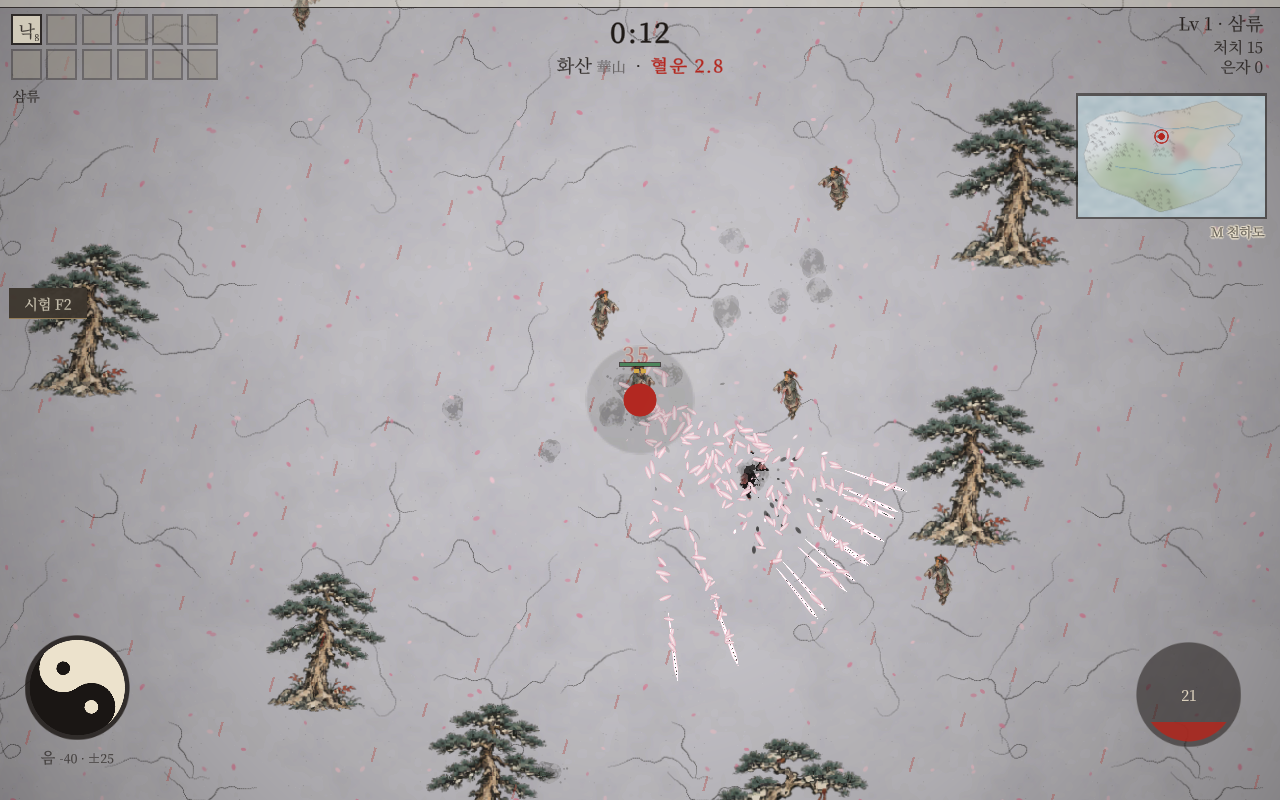
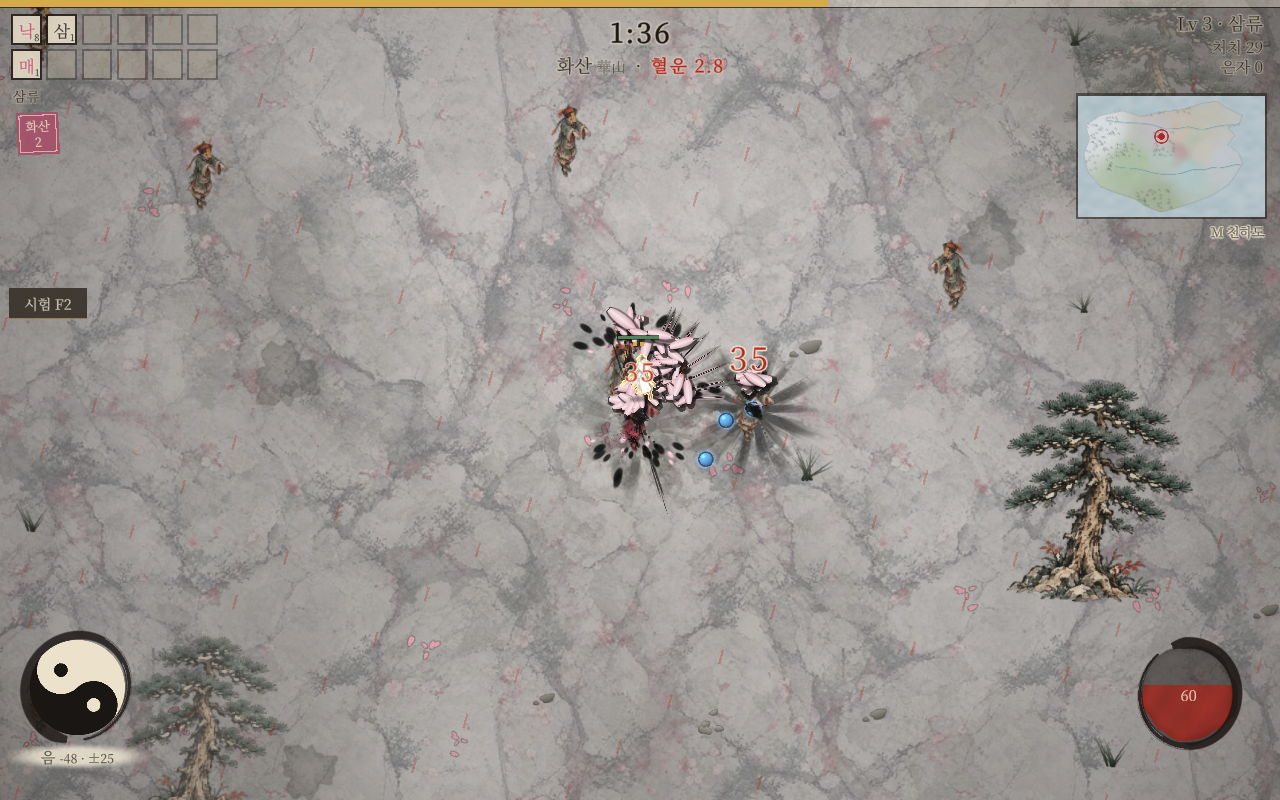
unity_tasks HF-03U 화산·마교 쓰러짐 다시 찍음
Claude-Session: https://claude.ai/code/session_01JznnPSNTi17o4myXgidJzi

diff --git a/docs/unity_tasks.md b/docs/unity_tasks.md
@@ -151,7 +151,7 @@ Unity 에디터가 있어야 하는 일만 적는다. PC Unity 예약 세션(202
   - 끝: 네 무공 모두 1단과 5단이 한눈에 다르고 그 사이도 구분됨. 효과 간소화를 켜면 담채·메아리·검풍·먹 터짐이 빠짐. 설정 흔들림 0% 에서 흔들림·눌림·어둡게 없음. 콘솔 에러 0
   - 찍기: `docs/unity_shots/VF-03U/` 에 무공마다 `<무공>_1.png`·`<무공>_3.png`·`<무공>_5.png`
 
-- [ ] HF-03U 절제된 타격감: 적이 쓰러지는 모습 · 먼저: 없음 (진행: 2026-11-17 20시 대화 세션 — `Fx/DeathLayer.cs` 를 새로 넣음. 쓰러진 적 그림 한 장을 0.3~0.6초 남겨 3단부터 성질대로: 먹 = 둘로 갈라짐, 금 = 뒤로 날아가며 금가루, 호박 = 납작, 푸름·번개 = 그을려 굳었다 바스러짐, 독 = 녹아 가라앉음, 물 = 쓸려 감, 꽃잎 = 연분홍으로 흩어짐, 자주 = 오그라듦, 불 = 재. 1·2단은 먹으로 번지며 밀려남(VF-18 규칙). `WeaponRunner` Killed 가 `EnemyField.LookOf`(그 적 그림·크기)로 넘김, 밟힘·쓸림은 뺌. 덩이 셰이더는 안 고침(같은 재질에 색·디졸브만) — 진짜 두 동강(UV 자르기)과 몸의 흰 번쩍은 HF-01U 때. Play 에서 나한권 5단으로 금빛으로 날아가는 것 확인. 2026-11-17 22:42 PC: 나한권 5단 한 장 찍음(`docs/unity_shots/HF-03U/` 의 `nahan.png`) — 쓰러진 적이 금가루와 함께 날아가는데 그림이 새까만 실루엣으로 보임(원화 색이 아니라 먹 덩이), 마지막 주먹의 노란 빛살이 화면 가운데를 꽤 크게 덮음(사람이 '번쩍임이 많다'고 한 쪽일 수 있음). 2026-11-19 02:40 PC: 11-18 HF-04 고침(낙뢰·흑룡탄 HitLook, 독·화상 LastKillDot) 컴파일 에러 0. 몸 바꾸기로 문파마다 시작 무공만 Lv8 로 두고 시간 0.08배로 찍음 — 숭산 나한권: 쓰러진 적이 황토·금빛으로 날아감, 새까맣지 않음(`nahan_gold.png`) / 개방 취선봉: 호박빛 호 + 먹 터짐, 납작해진 몸은 작아 잘 안 읽힘(`gaebang.png`) / 남궁 창천검기: 플레이어 곁에 잿빛으로 굳어 바스러지는 그림자(`namgung.png`) / 당가타 독무 Lv8: 바닥에 독 꽃 자국과 그 안에 가라앉는 검은 몸이 보이나 '녹아내림'인지는 멈춘 사진으론 애매(`poison.png`). 눈에 띈 것: 당가타 몸에서 플레이어 자리에 붉은 원이 그려짐(당가 몸 그림이 빠진 자리표 같음 — 다른 문파는 사람 그림). 콘솔 에러는 스크린샷 도구 Step 때 Dash.Tick dt 예외 하나(도구 몫). 남은 것: ① 절제 값이 화면에서 차분한지 사람 확인 ② 무당·화산·곤륜·수채·마교 시작 무공 한 장씩 ③ 당가 붉은 원 — 2026-11-19 03시 클라우드: 원인은 Run 씬 `PlayerLook` 몸 그림 목록이 11-17 에 들어온 그림(당가·무당·수로채 남녀, 당연화·하연·운화)을 몰라 `PlayerController` 동그라미가 남은 것. 메뉴 `몸 그림 목록 채우기` 와 같은 셈(파일 이름 차례, 알파 128 넘는 줄)으로 씬 YAML 의 names·sprites·footV·bodyV 를 열여덟 장으로 채움(앞 아홉 값은 그대로 다시 나옴). PC 는 당가 몸으로 사람 그림이 나오는지만 보면 된다. 화산·곤륜·마교 몸은 그림이 아직 없어(art_queue todo) 동그라미가 맞다 — 그림을 들이면 그 메뉴를 다시 돌린다. 2026-11-19 05:07 PC: 당가 몸(`TestPanel.SwitchBody("tang")`)에 사람 그림이 나오고 붉은 원 없음, 콘솔 에러 0 — ③ 끝. 찍음 `docs/unity_shots/HF-03U/` 의 `tang_body.png`. 2026-11-20 03:10 PC: ② 끝 — 몸 바꾸기로 다섯 문파 시작 무공 Lv8, 시간 0.08배로 한 장씩. 무당 태극검: 태극 원 둘레에 먹 가시가 터지고 쓰러진 적이 먹으로 갈라짐(`wudang.png`) / 화산 낙화검우: 분홍 꽃잎 부채 + 흰 검흔, 쓰러진 자리는 잿빛 번짐만 남아 '꽃잎으로 흩어짐'은 이 크기에선 잘 안 읽힘(`huashan.png`) / 곤륜 뇌부: 낙뢰 자리에 먹 별꼴 그을음, 맞은 적은 새까맣게 굳음(`kunlun.png`) / 수로채 쇄겸술: 젖은 자국이 플레이어 둘레에 번짐, 이 순간엔 낫이 안 보임(`waterfort.png`) / 마교 혈조: 손톱 자국이 가늘고 옅어 쓰러짐이 거의 안 보임(`demonic.png`). 화산·곤륜·마교 몸은 그림이 없어 동그라미(맞음). 무당·곤륜·십만대산에서 소나무 소품이 왼쪽 위 무공 칸·위 가운데 시계 줄을 덮음(PR-02U 와 같은 것). 콘솔 에러 0. 남은 것: ① 사람 확인뿐) (2026-11-20 21:20 대화 세션: 위에서 옅다던 둘을 고침(6740b731) — 화산 꽃잎 쓰러짐은 꽃잎 아홉 장·크기 .26·짙은 분홍으로 살짝 떠오르며 돌고, 마교 혈조 쓰러짐은 혈무 방울이 친 쪽으로 빨려 들며 짙은 피빛으로 사라짐. 컴파일 에러 0. 쓰러지는 순간 사진은 다음 PC 차례가 `huashan.png`·`demonic.png` 다시 찍기)
+- [ ] HF-03U 절제된 타격감: 적이 쓰러지는 모습 · 먼저: 없음 (진행: 2026-11-17 20시 대화 세션 — `Fx/DeathLayer.cs` 를 새로 넣음. 쓰러진 적 그림 한 장을 0.3~0.6초 남겨 3단부터 성질대로: 먹 = 둘로 갈라짐, 금 = 뒤로 날아가며 금가루, 호박 = 납작, 푸름·번개 = 그을려 굳었다 바스러짐, 독 = 녹아 가라앉음, 물 = 쓸려 감, 꽃잎 = 연분홍으로 흩어짐, 자주 = 오그라듦, 불 = 재. 1·2단은 먹으로 번지며 밀려남(VF-18 규칙). `WeaponRunner` Killed 가 `EnemyField.LookOf`(그 적 그림·크기)로 넘김, 밟힘·쓸림은 뺌. 덩이 셰이더는 안 고침(같은 재질에 색·디졸브만) — 진짜 두 동강(UV 자르기)과 몸의 흰 번쩍은 HF-01U 때. Play 에서 나한권 5단으로 금빛으로 날아가는 것 확인. 2026-11-17 22:42 PC: 나한권 5단 한 장 찍음(`docs/unity_shots/HF-03U/` 의 `nahan.png`) — 쓰러진 적이 금가루와 함께 날아가는데 그림이 새까만 실루엣으로 보임(원화 색이 아니라 먹 덩이), 마지막 주먹의 노란 빛살이 화면 가운데를 꽤 크게 덮음(사람이 '번쩍임이 많다'고 한 쪽일 수 있음). 2026-11-19 02:40 PC: 11-18 HF-04 고침(낙뢰·흑룡탄 HitLook, 독·화상 LastKillDot) 컴파일 에러 0. 몸 바꾸기로 문파마다 시작 무공만 Lv8 로 두고 시간 0.08배로 찍음 — 숭산 나한권: 쓰러진 적이 황토·금빛으로 날아감, 새까맣지 않음(`nahan_gold.png`) / 개방 취선봉: 호박빛 호 + 먹 터짐, 납작해진 몸은 작아 잘 안 읽힘(`gaebang.png`) / 남궁 창천검기: 플레이어 곁에 잿빛으로 굳어 바스러지는 그림자(`namgung.png`) / 당가타 독무 Lv8: 바닥에 독 꽃 자국과 그 안에 가라앉는 검은 몸이 보이나 '녹아내림'인지는 멈춘 사진으론 애매(`poison.png`). 눈에 띈 것: 당가타 몸에서 플레이어 자리에 붉은 원이 그려짐(당가 몸 그림이 빠진 자리표 같음 — 다른 문파는 사람 그림). 콘솔 에러는 스크린샷 도구 Step 때 Dash.Tick dt 예외 하나(도구 몫). 남은 것: ① 절제 값이 화면에서 차분한지 사람 확인 ② 무당·화산·곤륜·수채·마교 시작 무공 한 장씩 ③ 당가 붉은 원 — 2026-11-19 03시 클라우드: 원인은 Run 씬 `PlayerLook` 몸 그림 목록이 11-17 에 들어온 그림(당가·무당·수로채 남녀, 당연화·하연·운화)을 몰라 `PlayerController` 동그라미가 남은 것. 메뉴 `몸 그림 목록 채우기` 와 같은 셈(파일 이름 차례, 알파 128 넘는 줄)으로 씬 YAML 의 names·sprites·footV·bodyV 를 열여덟 장으로 채움(앞 아홉 값은 그대로 다시 나옴). PC 는 당가 몸으로 사람 그림이 나오는지만 보면 된다. 화산·곤륜·마교 몸은 그림이 아직 없어(art_queue todo) 동그라미가 맞다 — 그림을 들이면 그 메뉴를 다시 돌린다. 2026-11-19 05:07 PC: 당가 몸(`TestPanel.SwitchBody("tang")`)에 사람 그림이 나오고 붉은 원 없음, 콘솔 에러 0 — ③ 끝. 찍음 `docs/unity_shots/HF-03U/` 의 `tang_body.png`. 2026-11-20 03:10 PC: ② 끝 — 몸 바꾸기로 다섯 문파 시작 무공 Lv8, 시간 0.08배로 한 장씩. 무당 태극검: 태극 원 둘레에 먹 가시가 터지고 쓰러진 적이 먹으로 갈라짐(`wudang.png`) / 화산 낙화검우: 분홍 꽃잎 부채 + 흰 검흔, 쓰러진 자리는 잿빛 번짐만 남아 '꽃잎으로 흩어짐'은 이 크기에선 잘 안 읽힘(`huashan.png`) / 곤륜 뇌부: 낙뢰 자리에 먹 별꼴 그을음, 맞은 적은 새까맣게 굳음(`kunlun.png`) / 수로채 쇄겸술: 젖은 자국이 플레이어 둘레에 번짐, 이 순간엔 낫이 안 보임(`waterfort.png`) / 마교 혈조: 손톱 자국이 가늘고 옅어 쓰러짐이 거의 안 보임(`demonic.png`). 화산·곤륜·마교 몸은 그림이 없어 동그라미(맞음). 무당·곤륜·십만대산에서 소나무 소품이 왼쪽 위 무공 칸·위 가운데 시계 줄을 덮음(PR-02U 와 같은 것). 콘솔 에러 0. 남은 것: ① 사람 확인뿐) (2026-11-20 21:20 대화 세션: 위에서 옅다던 둘을 고침(6740b731) — 화산 꽃잎 쓰러짐은 꽃잎 아홉 장·크기 .26·짙은 분홍으로 살짝 떠오르며 돌고, 마교 혈조 쓰러짐은 혈무 방울이 친 쪽으로 빨려 들며 짙은 피빛으로 사라짐. 컴파일 에러 0. 쓰러지는 순간 사진은 다음 PC 차례가 `huashan.png`·`demonic.png` 다시 찍기) (2026-11-21 20:58 PC: 두 장 다시 찍음(덮어씀) — 화산 삼류 낙화검우 Lv8·시간 0.06배: 쓰러진 자리마다 연분홍 꽃잎 여러 장이 먹 튐과 함께 흩어져 '꽃잎으로 흩어짐'이 읽힘(`huashan.png`) / 십만대산 혈조 Lv8: 플레이어 둘레에 짙은 핏빛·자줏빛 방울이 친 쪽으로 몰리며 자주 할퀸 자국과 겹쳐 보임 — 짙은 청회 바닥에서도 또렷함(`demonic.png`). 콘솔 에러는 'Font Error: Cloning a dynamic font is not supported' 하나(이번에 고친 것과 무관, 어디서 나는지는 안 봄). 남은 것: ① 사람 확인뿐)
   - 할 것: 2026-11-17 사람이 "화면 흔들림이 너무 거세고 번쩍거림이 많아 … 적이 죽을 때 좀 다르게 죽는다던가"라고 함. 클라우드가 `HitFeel.Shake`(5분의 1, 최대 0.28)·`Jolt`(눌림 3분의 1, 어둡게 없음)와 `SectFx.HitFlash`(흰 섬광 → 먹 금 하나)·`ImpactCut`(흰 터짐 뺌)을 먼저 고쳐 둠(**Unity 컴파일·화면 확인 전**). 이 항목은 ① 그 값이 화면에서 차분한지 보고 ② 적이 쓰러지는 모습을 무공 성질(`WeaponRunner._hitKind`)마다 다르게: 시안 `sects.html` 의 `die`·`drawDeath` 를 덩이 렌더러(HF-01U 가 넣는 `_Flash`·찌그러짐 자리)로 옮긴다. 먼저 넷(먹 = 갈라짐, 금 = 날아가 금가루, 호박 = 납작, 푸름 = 그을려 굳었다 바스러짐). 적의 흰 번쩍임은 0.28 까지만
   - 쓸 것: vfx.md '절제된 타격감', 시안 주소 `#samjae-4`·`#shaolin-4`·`#gaebang-4`·`#namgung-4`(거센 쪽은 끝에 `-loud`)
   - 메뉴: 없음
